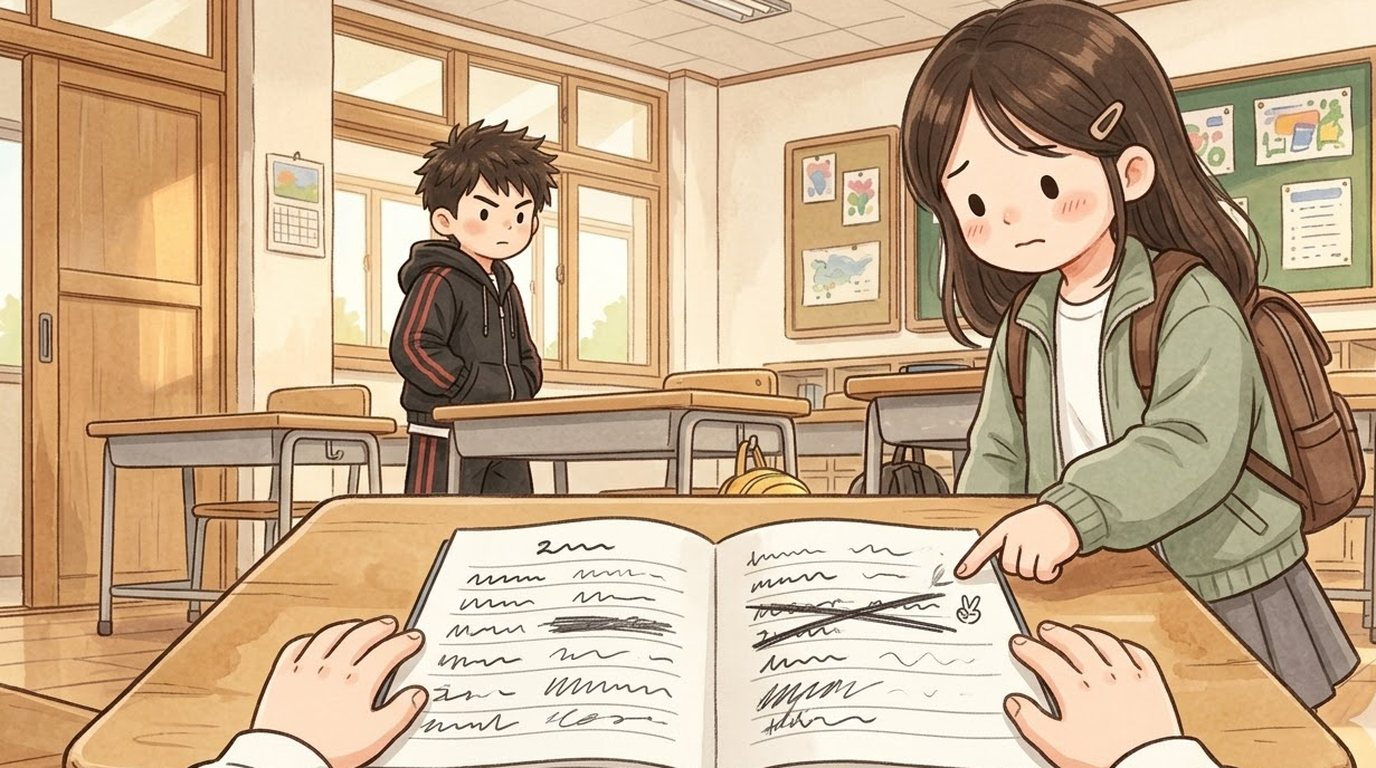
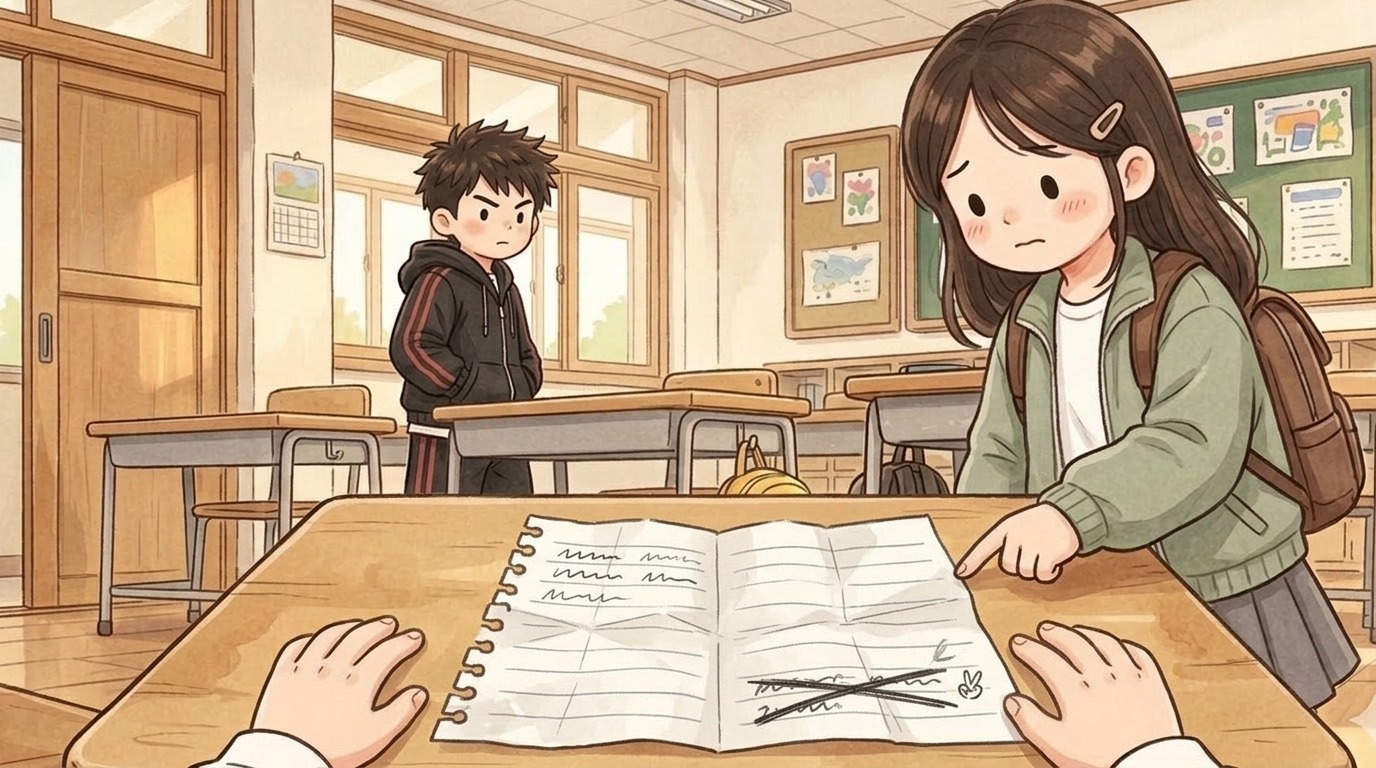
Seah (11/07 AI review of days 2-7): meeting 1 all five kids (Minho, Jiho, Jihoon, Hangyeol, Seah) now fit on the phone screen, meeting 2 Minho looks over at Sua (the picture shows her side), meeting 3 the note is one torn-out sheet with fold creases, not a whole notebook (seah_03); 5 languages

Changed region(s): [[0.25, 0.6562, 0.7812, 1.0]]

diff --git a/index.html b/index.html
@@ -119,14 +119,14 @@ body,button{word-break:keep-all;overflow-wrap:break-word}
 <div id="fader"></div>
 <script>
 // same address, newest version: if the page this phone has kept is older than the one online, fetch the new one and reopen
-const BUILD='1107124100';
+const BUILD='1107124218';
 try{fetch(location.pathname,{cache:'no-store'}).then(r=>r.text()).then(t=>{const m=t.match(/const BUILD='(\d+)'/);if(m&&m[1]!==BUILD&&sessionStorage.getItem('upd')!==m[1]){sessionStorage.setItem('upd',m[1]);fetch(location.pathname,{cache:'reload'}).then(()=>location.reload())}}).catch(()=>{})}catch(e){}
 </script>
-<script src="i18n.js?v=1107124100"></script>
-<script src="i18n_prologue_v2.js?v=1107124100"></script>
-<script src="day2/i18n_engine.js?v=1107124100"></script>
-<script src="day2/data.js?v=1107124100"></script>
-<script src="day3/data.js?v=1107124100"></script>
+<script src="i18n.js?v=1107124218"></script>
+<script src="i18n_prologue_v2.js?v=1107124218"></script>
+<script src="day2/i18n_engine.js?v=1107124218"></script>
+<script src="day2/data.js?v=1107124218"></script>
+<script src="day3/data.js?v=1107124218"></script>
 <script>
 // ---------- data ----------
 const MW=1672,MH=941,KID=180;
@@ -566,34 +566,34 @@ function pickHero(){const m=document.getElementById('modal'),c=document.getEleme
  c.innerHTML=`<h2>${tr('전학생 반장되기')}</h2><p>${tr('한국말이 아직 서툰 전학생,<br>반장 선거에 나가다.')}</p><p style="margin-top:14px">${tr('누구로 할까요?')}</p>${(()=>{const s=loadSave();return s&&s.day>=2&&s.mode===UI+'-'+LANG?`<p><button class="big" id="cont">${tr('{n}일차부터 이어 하기').replace('{n}',s.day)}</button></p>`:''})()}<div class="pick heroes"><button data-h="hero_f"><img src="faces/hero_f_smile.jpg" alt="여자 주인공">${heroName(1)}</button><button data-h="hero_m"><img src="faces/hero_m_smile.jpg" alt="남자 주인공">${heroName(0)}</button></div>`;
  m.classList.add('on');{const cb=document.getElementById('cont');if(cb)cb.onclick=()=>{const s=loadSave();HERO=s.hero;Object.assign(HEART,s.heart||{});(s.found||[]).forEach(k=>FOUND.add(k));HEART_D1={...HEART};chime();(typeof contGame==='function'?contGame(s):startDay(Math.min(s.day,Object.keys(window.D3||{}).length?3:2)))}}c.querySelectorAll('.pick button').forEach(b=>b.onclick=()=>{HERO=b.dataset.h;m.classList.remove('on');chime();bgm('day');load('home_am');say([['nar','','이사 온 다음 날 아침. 아직 풀지 못한 상자들이 쌓여 있다.'],['think','sad','(오늘부터 새 학교야. 여기 말도 아직 서툰데…….)'],['think','smile','({m}한테 인사하고 학교 가야지.)']],morning)})}
 </script>
-<script src="day2/engine.js?v=1107124100"></script>
-<script src="day2/ep_minho.js?v=1107124100"></script>
-<script src="day2/meet.js?v=1107124100"></script>
-<script src="day2/ep_sua.js?v=1107124100"></script>
-<script src="day2/ep_hangyeol.js?v=1107124100"></script>
-<script src="day2/ep_siwoo.js?v=1107124100"></script>
-<script src="day2/ep_haram.js?v=1107124100"></script>
-<script src="day2/ep_jiho.js?v=1107124100"></script>
-<script src="day2/ep_hyeeun.js?v=1107124100"></script>
-<script src="day2/ep_haneul.js?v=1107124100"></script>
-<script src="day2/ep_junho.js?v=1107124100"></script>
-<script src="day2/ep_yuna.js?v=1107124100"></script>
-<script src="day2/ep_yena.js?v=1107124100"></script>
-<script src="day2/ep_haeun.js?v=1107124100"></script>
-<script src="day2/ep_youngmin.js?v=1107124100"></script>
-<script src="day2/ep_seah.js?v=1107124100"></script>
-<script src="day2/ep_jihoon.js?v=1107124100"></script>
-<script src="words_ja_ru.js?v=1107124100"></script>
-<script src="day2/mybag.js?v=1107124100"></script>
-<script src="day2/wordpics.js?v=1107124100"></script>
-<script src="day2/spots.js?v=1107124100"></script>
-<script src="day2/textfit.js?v=1107124100"></script>
-<script src="day2/tester.js?v=1107124100"></script>
-<script src="day2/ux.js?v=1107124100"></script>
-<script src="day2/tapword.js?v=1107124100"></script>
-<script src="day2/review.js?v=1107124100"></script>
-<script src="day2/ep_ending.js?v=1107124100"></script>
-<script src="day2/ending.js?v=1107124100"></script>
+<script src="day2/engine.js?v=1107124218"></script>
+<script src="day2/ep_minho.js?v=1107124218"></script>
+<script src="day2/meet.js?v=1107124218"></script>
+<script src="day2/ep_sua.js?v=1107124218"></script>
+<script src="day2/ep_hangyeol.js?v=1107124218"></script>
+<script src="day2/ep_siwoo.js?v=1107124218"></script>
+<script src="day2/ep_haram.js?v=1107124218"></script>
+<script src="day2/ep_jiho.js?v=1107124218"></script>
+<script src="day2/ep_hyeeun.js?v=1107124218"></script>
+<script src="day2/ep_haneul.js?v=1107124218"></script>
+<script src="day2/ep_junho.js?v=1107124218"></script>
+<script src="day2/ep_yuna.js?v=1107124218"></script>
+<script src="day2/ep_yena.js?v=1107124218"></script>
+<script src="day2/ep_haeun.js?v=1107124218"></script>
+<script src="day2/ep_youngmin.js?v=1107124218"></script>
+<script src="day2/ep_seah.js?v=1107124218"></script>
+<script src="day2/ep_jihoon.js?v=1107124218"></script>
+<script src="words_ja_ru.js?v=1107124218"></script>
+<script src="day2/mybag.js?v=1107124218"></script>
+<script src="day2/wordpics.js?v=1107124218"></script>
+<script src="day2/spots.js?v=1107124218"></script>
+<script src="day2/textfit.js?v=1107124218"></script>
+<script src="day2/tester.js?v=1107124218"></script>
+<script src="day2/ux.js?v=1107124218"></script>
+<script src="day2/tapword.js?v=1107124218"></script>
+<script src="day2/review.js?v=1107124218"></script>
+<script src="day2/ep_ending.js?v=1107124218"></script>
+<script src="day2/ending.js?v=1107124218"></script>
 <script>
 // the goal shows big for a few seconds, then folds into a small pill (tap it to open it again)
 {const g=document.getElementById('goal');let t=null;const big=()=>{g.classList.remove('mini');clearTimeout(t);t=setTimeout(()=>g.classList.add('mini'),4000)};

diff --git a/day2/i18n_seah.js b/day2/i18n_seah.js
@@ -36,3 +36,9 @@ T.vi=T.vi||{};Object.assign(T.vi,{"첫 판이 끝났다. 한결이가 꼬리를 
 T.zh=T.zh||{};Object.assign(T.zh,{"첫 판이 끝났다. 한결이가 꼬리를 흔들며 일어나서 달려왔다.": "第一局结束了。韩杰站起来，甩着尾巴跑了过来。"});
 T.ja=T.ja||{};Object.assign(T.ja,{"첫 판이 끝났다. 한결이가 꼬리를 흔들며 일어나서 달려왔다.": "最初のゲームが終わった。ハンギョルが起き上がって、しっぽをふりながら走ってきた。"});
 T.ru=T.ru||{};Object.assign(T.ru,{"첫 판이 끝났다. 한결이가 꼬리를 흔들며 일어나서 달려왔다.": "Первый раунд закончился. Хангёль встаёт и подбегает, размахивая хвостиком."});
+// 11/07 AI review: Minho looks over at Sua (the picture shows her side)
+T.en=T.en||{};Object.assign(T.en,{"민호가 {@locker}에서 쿵 내려왔다. 수아 쪽을 보며 입을 비죽였다.": "Minho jumped down from the {@locker} with a thud. He looked over at Sua and pouted."});
+T.vi=T.vi||{};Object.assign(T.vi,{"민호가 {@locker}에서 쿵 내려왔다. 수아 쪽을 보며 입을 비죽였다.": "Minho nhảy phịch xuống khỏi {@locker}. Cậu nhìn về phía Sua rồi bĩu môi."});
+T.zh=T.zh||{};Object.assign(T.zh,{"민호가 {@locker}에서 쿵 내려왔다. 수아 쪽을 보며 입을 비죽였다.": "敏浩从{@locker}上咚地跳了下来。他朝秀雅那边看着，撇了撇嘴。"});
+T.ja=T.ja||{};Object.assign(T.ja,{"민호가 {@locker}에서 쿵 내려왔다. 수아 쪽을 보며 입을 비죽였다.": "ミンホが{@locker}からドンとおりてきた。スアのほうを見て、口をとがらせた。"});
+T.ru=T.ru||{};Object.assign(T.ru,{"민호가 {@locker}에서 쿵 내려왔다. 수아 쪽을 보며 입을 비죽였다.": "Минхо с грохотом спрыгивает с {@locker}. Смотрит в сторону Суа и кривит губы."});
